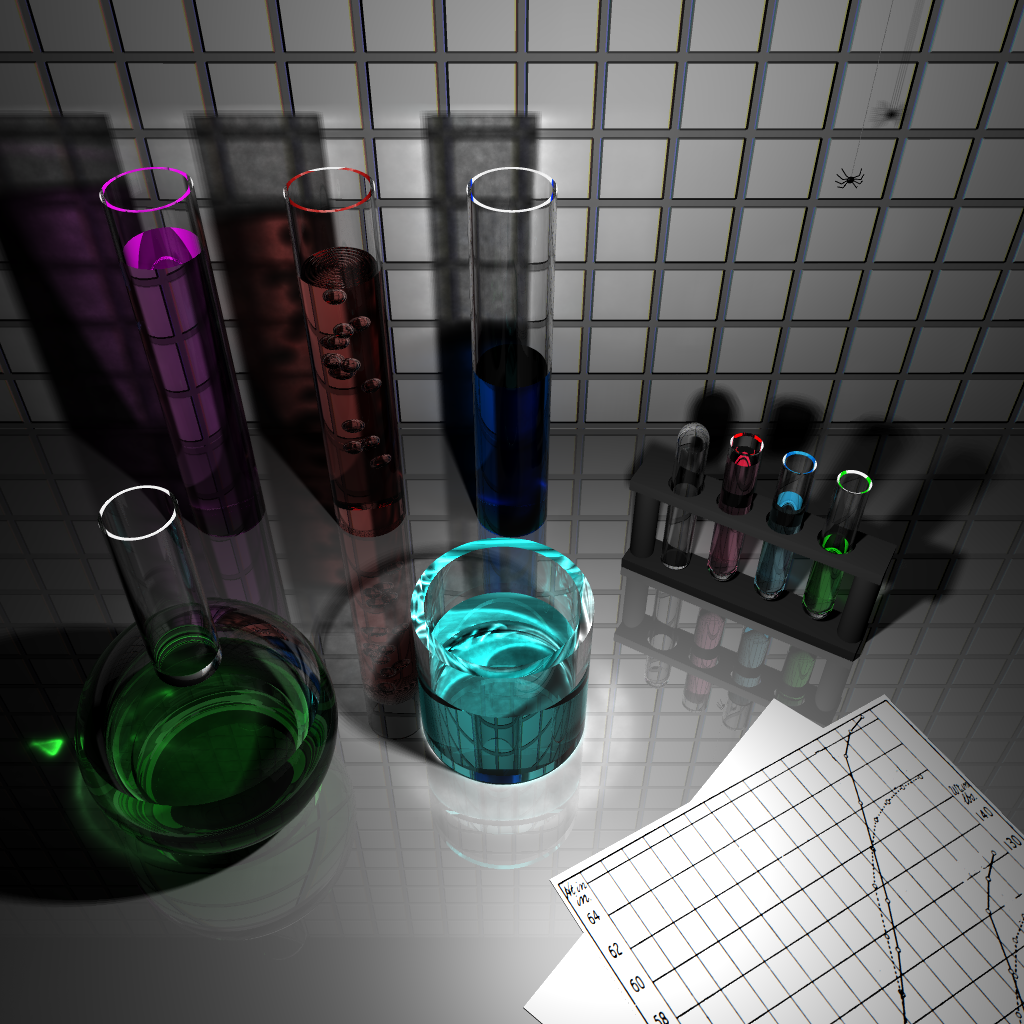
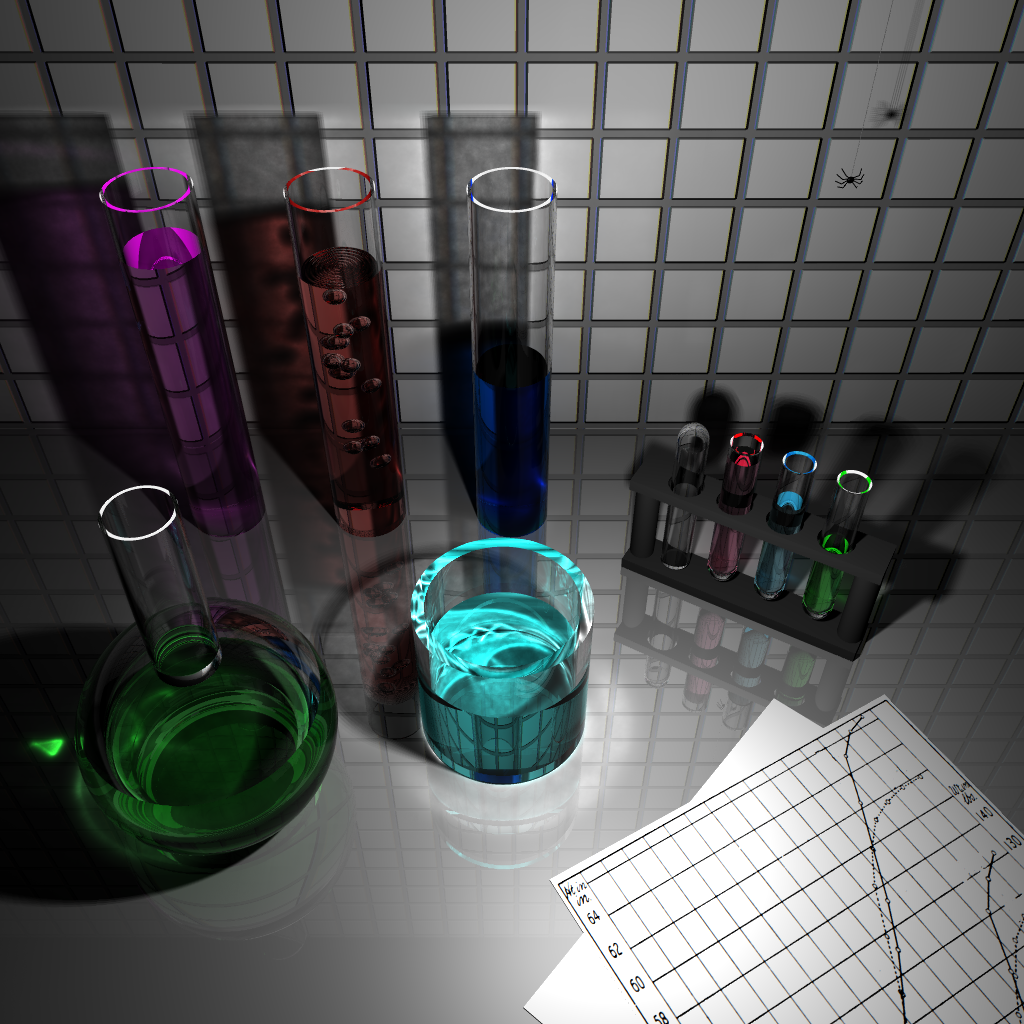
Fix a bug.

diff --git a/src/photonmap.cpp b/src/photonmap.cpp
@@ -254,8 +254,7 @@ Colour PhotonMap::query_radiance(const Point3D &pt, const Vector3D &outgoing)
     nl.pop();
     // Ignore photons which were travelling in the opposite direction of the
     // outgoing vector (which is to the viewer).
-    double fr = outgoing.dot(ph.outgoing);
-    fr = fr < 0 ? 0 : 1;
+    const double fr = 1.;
     //const double wp = 1 - 0.25 * node.dist / maxdist;
     intensity += max(fr, 0.) * ph.colour;
   }
